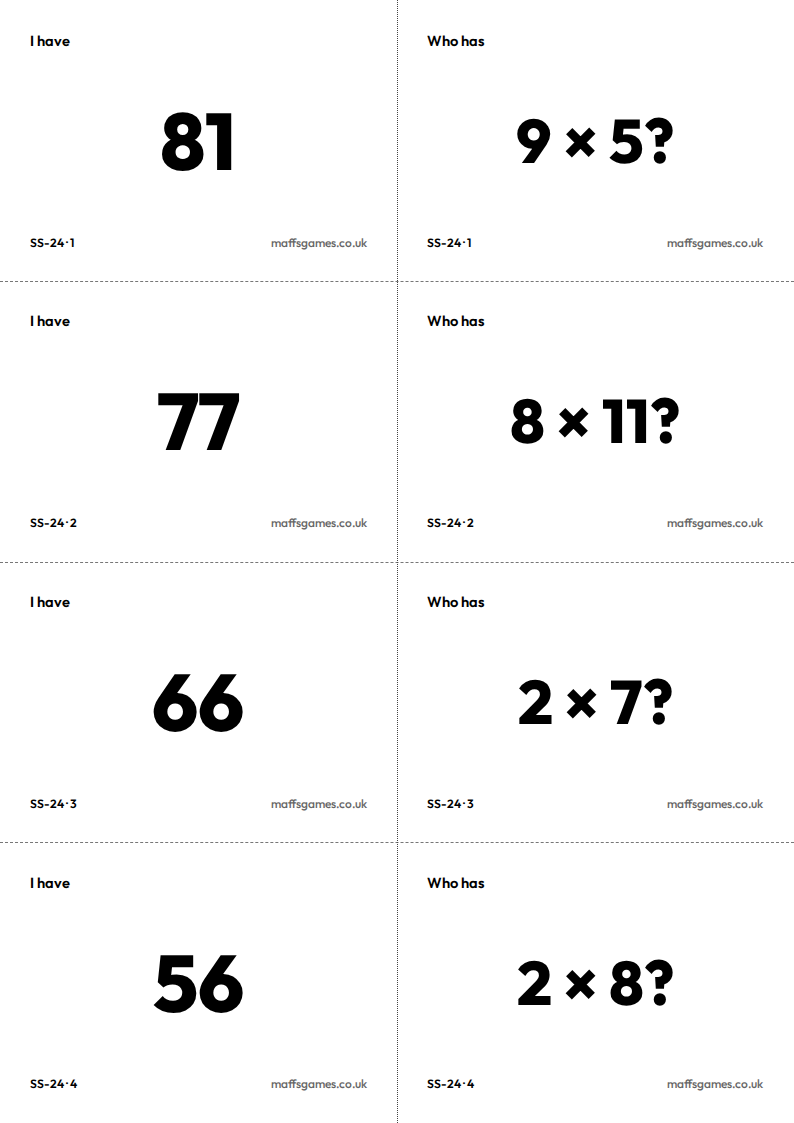
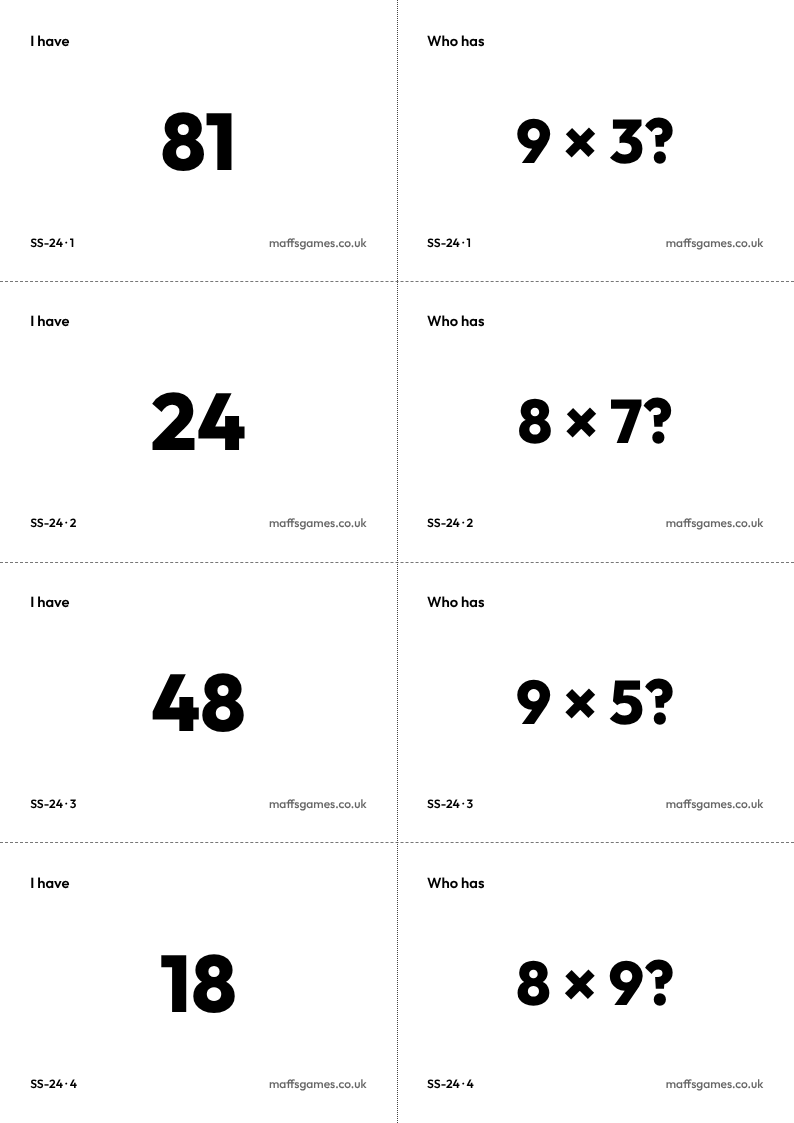
SIX-SEVENS-WEIGHTING: Six Sevens decks drill the 6, 7, 8, 9 and 12 tables by rule; the build checks it; loop-card selftest in CI
six_sevens.py: factors 3 to 12 without 10. SS-16 and SS-24 are 42 plus facts
drawn uniformly from the 25 core products (a factor in 6, 7, 8, 9, 12, no 11);
SS-32 is all 25 plus 7 from the 15 others. WEIGHT and _weight() removed.
deck_problems() holds every deck to the rule from the printed backs' factors
(factors_q, sharing value_q's parsing); build_deck.py's check_deck() calls it
when an adapter defines it. Three new plants (6 x 11 in SS-24, 2 x 9 in SS-16,
SS-32 with 8 non-core cards): selftest 18 of 18 caught.

scripts/test-loop-cards.py runs build_deck.py --selftest in CI, on
test-pack-generator.py's pattern. Six Sevens proofs regenerated; todo
LOOP-CARDS-APPROVE notes the changed cards; cloud handover.

Claude-Session: https://claude.ai/code/session_016VxfSY36HFS7AxEjw24NP9

diff --git a/tools/loop-cards/six_sevens.py b/tools/loop-cards/six_sevens.py
@@ -1,20 +1,31 @@
 """Six Sevens, Bruv: the loop-card adapter (contract LOOP-CARDS, 12 Nov 2026).
 
-Facts a x b with 2 <= a <= b <= 12, no x10 (the contract's rule for this pack), every product in a deck distinct,
-chosen deterministically from the deck's seeded generator and weighted to the 6, 7, 8, 9 and 12 tables. Every deck
-holds 6 x 7, whose card pair is SHOUTED (Jon, 12 Nov 2026, 15:05 and 15:07).
+Facts a x b with 3 <= a <= b <= 12, no x10, every product in a deck distinct, chosen deterministically from the deck's
+seeded generator. The decks drill the 6, 7, 8, 9 and 12 tables by RULE, not by probability (contract
+SIX-SEVENS-WEIGHTING, Jon's rulings of 13 Nov 2026, 01:50 and 01:55):
+
+  CORE  = the distinct products a x b (a, b from 3 to 12, not 10 or 11) with a or b in {6, 7, 8, 9, 12}: 25 products.
+  OTHER = every other distinct product a x b (a, b from 3 to 12, not 10): 15 products, from the 3, 4, 5 and 11 tables.
+
+  SS-16 and SS-24: 42 and the rest drawn uniformly from CORE, each printed as a fact on the 6, 7, 8, 9 or 12 table
+  with no 11. SS-32: all 25 CORE products, plus 7 drawn uniformly from OTHER.
+
+Every deck holds 6 x 7, whose card pair is SHOUTED (Jon, 12 Nov 2026, 15:05 and 15:07).
 
 The build's check never trusts choose(): value_q() and value_a() read the PRINTED text again and work the
-products out themselves, including the shouted question in words.
+products out themselves, including the shouted question in words; deck_problems() reads the printed backs' factors
+again and holds every deck to the rule above.
 """
 import re
 
 CODE = "SS"
 GAME = "six-sevens-bruv"
-FACTORS = [a for a in range(2, 13) if a != 10]
-WEIGHTED = {6, 7, 8, 9, 12}
-WEIGHT = 3                   # a fact on a weighted table is three times as likely to be chosen
+FACTORS = [a for a in range(3, 13) if a != 10]
+TABLES = {6, 7, 8, 9, 12}    # the tables the decks drill
+NOT_CORE = 11                # an 11-table fact is never core, whatever it is paired with
 REQUIRED = 42                # 6 x 7, in every deck
+CORE_DECKS = (16, 24)        # every card core
+ALL_CORE_DECK, OTHERS = 32, 7    # all of CORE, plus this many from OTHER
 TXT_CLASS = "lc-num"
 FRONT_MAX, BACK_MAX = 60, 46
 FONTS = ("Outfit",)
@@ -38,24 +49,42 @@ def _facts():
     return by_product
 
 
-def _weight(fact):
-    return WEIGHT if (fact[0] in WEIGHTED or fact[1] in WEIGHTED) else 1
+def is_core(fact):
+    """A fact on the 6, 7, 8, 9 or 12 table with no 11 in it."""
+    return NOT_CORE not in fact and bool(TABLES & set(fact))
+
+
+def _sets():
+    """(CORE, OTHER): each a dict of product -> the facts it may be printed as, in a fixed order."""
+    core, other = {}, {}
+    for p, facts in sorted(_facts().items()):
+        good = [f for f in facts if is_core(f)]
+        if good:
+            core[p] = good
+        else:
+            other[p] = facts
+    return core, other
 
 
 def choose(n, rng):
-    """n facts with distinct products, 6 x 7 always among them. A weighted sample without replacement
-    (Efraimidis-Spirakis keys), so the same seed always gives the same deck."""
-    by_product = _facts()
-    if len(by_product) < n:
-        raise ValueError("only %d distinct products, not %d" % (len(by_product), n))
-    pool = sorted(p for p in by_product if p != REQUIRED)
-    key = {p: rng.random() ** (1.0 / max(_weight(f) for f in by_product[p])) for p in pool}
-    chosen = [REQUIRED] + sorted(pool, key=lambda p: -key[p])[:n - 1]
+    """n facts with distinct products, 6 x 7 always among them, by the rule in the module's docstring. Every draw
+    comes from rng, over sorted lists, so the same seed always gives the same deck."""
+    core, other = _sets()
+    if n in CORE_DECKS:
+        pool = sorted(p for p in core if p != REQUIRED)
+        if len(pool) < n - 1:
+            raise ValueError("only %d core products besides 42, not %d" % (len(pool), n - 1))
+        chosen = [(REQUIRED, core[REQUIRED])] + [(p, core[p]) for p in rng.sample(pool, n - 1)]
+    elif n == ALL_CORE_DECK:
+        if len(core) + OTHERS != n or len(other) < OTHERS:
+            raise ValueError("%d core and %d other products cannot make %d + %d cards"
+                             % (len(core), len(other), len(core), OTHERS))
+        chosen = [(p, core[p]) for p in sorted(core)] + [(p, other[p]) for p in rng.sample(sorted(other), OTHERS)]
+    else:
+        raise ValueError("no Six Sevens deck of %d cards (16, 24 or 32)" % n)
     items = []
-    for p in chosen:
-        facts = by_product[p]
-        fk = {f: rng.random() ** (1.0 / _weight(f)) for f in facts}
-        a, b = max(facts, key=lambda f: fk[f])
+    for p, facts in chosen:
+        a, b = rng.choice(facts)
         if rng.random() < 0.5:
             a, b = b, a
         items.append({"q": "%d × %d" % (a, b), "a": str(p)})
@@ -65,7 +94,8 @@ def choose(n, rng):
 def unused(items):
     """A fact (as an item) whose product is in none of these items: the selftest's replacement for 6 x 7."""
     have = {value_a(it["a"]) for it in items}
-    for p, facts in sorted(_facts().items()):
+    core, other = _sets()
+    for p, facts in sorted(list(core.items()) + list(other.items())):
         if p not in have and p != REQUIRED:
             a, b = facts[0]
             return {"q": "%d × %d" % (a, b), "a": str(p)}
@@ -81,21 +111,61 @@ WORDS_RE = re.compile(r"WHO HAS ([A-Z]+) ([A-Z]+?)S")
 
 
 def _factor(x):
-    if not (2 <= x <= 12) or x == 10:
-        raise ValueError("factor %d is outside 2 to 12 without 10" % x)
+    if not (3 <= x <= 12) or x == 10:
+        raise ValueError("factor %d is outside 3 to 12 without 10" % x)
     return x
 
 
-def value_q(text):
-    """A printed back without its "?": "a × b" (U+00D7), or the shout in words, "WHO HAS SIX SEVENS"
-    (six lots of seven). Returns the product."""
+def _parse(text):
+    """The two numbers a printed back names: "a × b" (U+00D7), or the shout in words, "WHO HAS SIX SEVENS"
+    (six lots of seven). Neither range-checked nor multiplied: value_q() and factors_q() share this reading."""
     m = FACT_RE.fullmatch(text)
     if m:
-        return _factor(int(m.group(1))) * _factor(int(m.group(2)))
+        return int(m.group(1)), int(m.group(2))
     m = WORDS_RE.fullmatch(text)
     if m and m.group(1) in WORDS and m.group(2) in WORDS:
-        return _factor(WORDS[m.group(1)]) * _factor(WORDS[m.group(2)])
+        return WORDS[m.group(1)], WORDS[m.group(2)]
     raise ValueError("cannot read the question %r (expected 'a × b' with U+00D7)" % text)
+
+
+def value_q(text):
+    """A printed back without its "?". Returns the product."""
+    a, b = _parse(text)
+    return _factor(a) * _factor(b)
+
+
+def factors_q(text):
+    """A printed back without its "?". Returns its two factors (a, b) as printed."""
+    return _parse(text)
+
+
+def deck_problems(code, n, backs):
+    """The table rule, read from the deck's PRINTED backs (each without its "?") through factors_q() alone, never
+    from choose(). SS-16 and SS-24: every card core (a factor in 6, 7, 8, 9, 12; no 11). SS-32: at least 25 core
+    cards and at most 7 others. Every deck: no factor below 3. One message per fault, naming the deck and the back."""
+    problems, core, others = [], [], []
+    for text in backs:
+        try:
+            fact = factors_q(text)
+        except ValueError as e:
+            problems.append("%s: the back %r: %s" % (code, text, e))
+            continue
+        if min(fact) < 3:
+            problems.append("%s: the back %r has a factor below 3" % (code, text))
+        (core if is_core(fact) else others).append(text)
+    if n in CORE_DECKS:
+        for text in others:
+            problems.append("%s: the back %r is not on the 6, 7, 8, 9 or 12 table without an 11 (every %s card must be)"
+                            % (code, text, code))
+    elif n == ALL_CORE_DECK:
+        need = len(_sets()[0])
+        if len(core) < need or len(others) > OTHERS:
+            problems.append("%s: %d cards on the 6, 7, 8, 9 and 12 tables without an 11 and %d others (%s); it needs at "
+                            "least %d and at most %d" % (code, len(core), len(others), ", ".join(map(repr, others)),
+                                                         need, OTHERS))
+    else:
+        problems.append("%s: no table rule for a deck of %d cards" % (code, n))
+    return problems
 
 
 def value_a(text):

diff --git a/tools/loop-cards/build_deck.py b/tools/loop-cards/build_deck.py
@@ -632,6 +632,10 @@ def check_deck(ad, code, faces, tables, add):
             Q[i] = ad.value_q(b["main"][:-1].strip())
         except ValueError as e:
             add("%s card %s back: %s" % (code, i, e))
+    if hasattr(ad, "deck_problems"):      # an adapter's own rule for a deck's mix, read from the printed backs
+        for msg in ad.deck_problems(code, n, [b["main"][:-1].strip() for _, b in sorted(back.items())
+                                              if (b["main"] or "").endswith("?")]):
+            add(msg)
     owners = {}
     for i, v in A.items():
         owners.setdefault(v, []).append(i)
@@ -960,6 +964,33 @@ def plant_no_web(ad, cfg, pack):
     _deck(pack, "SS-16")["cards"][1]["no_web"] = ("fold", "back")
 
 
+def _rebuild(ad, cfg, pack, n, items):
+    """Deck n rebuilt from these items, so the loop stays whole and only the planted card is wrong."""
+    pack["decks"][SIZES.index(n)] = make_deck(ad, cfg, n, items)
+
+
+def _swap_item(items, product, new):
+    """items with new in place of the card answering product, or, if none does, of the first card not answering 42."""
+    k = next((i for i, it in enumerate(items) if it["a"] == product), None)
+    if k is None:
+        k = next(i for i, it in enumerate(items) if it["a"] != "42")
+    return items[:k] + [new] + items[k + 1:]
+
+
+def plant_eleven(ad, cfg, pack):
+    _rebuild(ad, cfg, pack, 24, _swap_item(_deck(pack, "SS-24")["items"], "66", {"q": "6 × 11", "a": "66"}))
+
+
+def plant_two(ad, cfg, pack):
+    _rebuild(ad, cfg, pack, 16, _swap_item(_deck(pack, "SS-16")["items"], "18", {"q": "2 × 9", "a": "18"}))
+
+
+def plant_eight_others(ad, cfg, pack):
+    """SS-32 holds every core product, 54 (6 × 9) among them: an unused non-core product takes its place."""
+    items = _deck(pack, "SS-32")["items"]
+    _rebuild(ad, cfg, pack, 32, _swap_item(items, "54", ad.unused(items)))
+
+
 PLANTS = (
     ("a duplicated answer", "like-terms-collector", plant_dup, r"is on 2 cards"),
     ("a back with no matching front", "like-terms-collector", plant_no_front, r"matches no front"),
@@ -979,6 +1010,11 @@ PLANTS = (
      r"the SHOUT IT back asks"),
     ("a shout in the Like Terms pack", "like-terms-collector", plant_lt_shout, r"in a pack without shouts"),
     ("a card face without the web address", "six-sevens-bruv", plant_no_web, r"no maffsgames\.co\.uk on this face"),
+    ("an 11-table card (6 × 11) in SS-24", "six-sevens-bruv", plant_eleven,
+     r"SS-24: the back '6 × 11' is not on the 6, 7, 8, 9 or 12 table"),
+    ("a 2-times card (2 × 9) in SS-16", "six-sevens-bruv", plant_two, r"SS-16: the back '2 × 9' has a factor below 3"),
+    ("SS-32 with 8 cards off the core tables", "six-sevens-bruv", plant_eight_others,
+     r"SS-32: 24 cards on the 6, 7, 8, 9 and 12 tables without an 11 and 8 others"),
 )
 
 

diff --git a/scripts/test-loop-cards.py b/scripts/test-loop-cards.py
@@ -1,0 +1,19 @@
+#!/usr/bin/env python3
+# ci-line: Loop cards (tools/loop-cards/build_deck.py --selftest: both loop-card packs, Six Sevens, Bruv and Like Terms Collector, pass every check as built, with the DRAFT badge following approval both ways; eighteen planted faults caught (a duplicated answer, a back with no front, two loops in one deck, a card asking its own answer, a back not mirrored, text past the safe zone, a string-similar answer, a card from another deck, a long teacher step, no 6 × 7, a shout on the wrong card or back, a shout in Like Terms, a face without the web address, an 11-table card in SS-24, a 2-times card in SS-16, SS-32 with 8 cards off the core tables, an unapproved --final); no PDF is ever built in CI) |
+# ci-deps: tools/loop-cards/ tools/pack-generator/ games/like-terms-collector/index.html scripts/bank_common.py scripts/plant_common.py scripts/escape_set_checks.py scripts/ci_shards.py scripts/fonts/ schools/assets/m_plus_logo.svg
+"""CI's entry to the loop-card generator's self-test (contract SIX-SEVENS-WEIGHTING, 13 Nov 2026).
+
+CI finds its lines only in scripts/*.py headers (scripts/ci-groups.py), and the generator lives in tools/loop-cards/,
+so this file is the line and nothing more, on scripts/test-pack-generator.py's pattern: it runs
+`build_deck.py --selftest` and returns its exit status. The self-test builds no PDF: the pack is the product, and
+never a CI artifact.
+"""
+import os
+import subprocess
+import sys
+
+ROOT = os.path.dirname(os.path.dirname(os.path.abspath(__file__)))
+BUILD = os.path.join(ROOT, "tools", "loop-cards", "build_deck.py")
+
+if __name__ == "__main__":
+    sys.exit(subprocess.call([sys.executable, "-X", "utf8", BUILD, "--selftest"]))

diff --git a/docs/handover/cloud.md b/docs/handover/cloud.md
@@ -79,7 +79,8 @@ start-up load). When the work merges, move the file to `docs/history/contracts/`
 
 ## 2026-11-13 (cloud): SIX-SEVENS-WEIGHTING (`docs/handover/contracts/2026-11-13-six-sevens-weighting.md`, lane exception, Jon 07:58)
 
-IN PROGRESS. Agent Claude Code (cloud), branch `claude/optimistic-goodall-q87dul` from main 89a5946. First commit: this contract, and WARMUP-PACKS' close-out (below). Core set checked before any edit: 25 products, 42 among them (18 21 24 27 28 30 32 35 36 40 42 45 48 49 54 56 60 63 64 72 81 84 96 108 144); OTHER 15 (9 12 15 16 20 25 33 44 55 66 77 88 99 121 132). Next: six_sevens.py rule and deck_problems, build_deck.py hook, three plants, scripts/test-loop-cards.py, build and proofs.
+PR OPEN, merging on green. Agent Claude Code (cloud), branch `claude/optimistic-goodall-q87dul` from main 89a5946. First commit bdc773d: this contract, and WARMUP-PACKS' close-out (below). Core set checked before any edit: 25 products, 42 among them (18 21 24 27 28 30 32 35 36 40 42 45 48 49 54 56 60 63 64 72 81 84 96 108 144); OTHER 15 (9 12 15 16 20 25 33 44 55 66 77 88 99 121 132).
+Done: six_sevens.py draws by rule (16/24: 42 + core; 32: all 25 core + 7 other) and deck_problems() reads the printed backs' factors; build_deck.py check_deck() calls an adapter's deck_problems if it has one (generic); three plants; selftest 18/18 caught (was 15). scripts/test-loop-cards.py (ci-line, ci-deps from a traced selftest run) packs alone into Content verifiers 50; ci-groups --check PASS. Six Sevens pack built (DRAFT, 40 pages, same page ranges and font sizes as main's); SS-16/24 all core, SS-32 25 core + 7 others, no factor below 3. Like Terms' printed faces, sizes and answer sheets byte-identical to main's build. Proofs regenerated for six-sevens-bruv only: same layout, the build date and the container's font smoothing differ.
 
 ## 2026-11-12 (cloud): WARMUP-PACKS (`docs/history/contracts/2026-11-12-warmup-packs.md`, lane exception, Jon 17:58; Amendments 1-3)
 

diff --git a/docs/todo.md b/docs/todo.md
@@ -692,7 +692,7 @@ Only what needs Jon: a ruling, a content review, or a task only he can do. Build
 - None open (11 Nov 2026: matrix-crunch's fourth distractor, §1.4, ruled by Jon on 10 Nov and closed by CLOUD-QUEUE-1111 PR 1).
 
 **Content to review:**
-- **LOOP-CARDS-APPROVE** (12 Nov 2026): approve both loop-card packs' teacher wording (proofs `docs/screens/loop-cards/*-teacher1.png`) (the PR's three layout calls were approved by Jon on 12 Nov). Approval goes in `tools/loop-cards/decks/<slug>/config.json` "wording_approved"; then `--final` builds go to Tes (Like Terms Collector £3; Six Sevens, Bruv free). Owner: Jon, then home lane.
+- **LOOP-CARDS-APPROVE** (12 Nov 2026): approve both loop-card packs' teacher wording (proofs `docs/screens/loop-cards/*-teacher1.png`) (the PR's three layout calls were approved by Jon on 12 Nov). **Six Sevens' cards changed (SIX-SEVENS-WEIGHTING, 13 Nov 2026):** the 16 and 24 decks are only 6, 7, 8, 9 and 12-table facts with no 11s and no 2s, the 32 deck all 25 of those plus 7 from the 3, 4, 5 and 11 tables, and the build checks it; Jon proofreads the new Six Sevens PDF (`python -X utf8 tools/loop-cards/build_deck.py six-sevens-bruv`) before approving. Approval goes in `tools/loop-cards/decks/<slug>/config.json` "wording_approved"; then `--final` builds go to Tes (Like Terms Collector £3; Six Sevens, Bruv free). Owner: Jon, then home lane.
 - Spot the Error banks (§1.23): KS3 35, Level 4 30.
 - New Shapes banks (§1.27): 15 / 20 / 15.
 - Regression Rumble (§1.26): Jon's look at the rebuilt game before the holding page is replaced.

diff --git a/tools/loop-cards/README.md b/tools/loop-cards/README.md
@@ -94,8 +94,11 @@ unless, for every deck:
 `build_deck.py` holds no game's facts. A pack's `decks/<slug>/config.json` names its adapter, title, seed and pack
 version. The adapter (`six_sevens.py`, `like_terms.py`) gives:
 
-- `choose(n, rng)`: the deck's questions and answers. Six Sevens: facts a × b, 2 ≤ a ≤ b ≤ 12 without ×10, every
-  product distinct, weighted 3 to 1 towards the 6, 7, 8, 9 and 12 tables, 6 × 7 always in. Like Terms: the 30 STAGE3
+- `choose(n, rng)`: the deck's questions and answers. Six Sevens: facts a × b, 3 ≤ a ≤ b ≤ 12 without ×10, every
+  product distinct, 6 × 7 always in, by a rule, not a probability (SIX-SEVENS-WEIGHTING, Jon, 13 Nov 2026): the 16
+  and 24 decks are only facts on the 6, 7, 8, 9 and 12 tables with no 11 (25 such products); the 32 deck is all 25 of
+  them plus 7 from the 3, 4, 5 and 11 tables. Its optional `deck_problems()` holds every deck to that rule from the
+  printed backs' factors, and the build fails on any breach. Like Terms: the 30 STAGE3
   items and the first 2 STAGE2 items of `games/like-terms-collector/index.html`, read from the page each build (never
   copied); the 32 deck is all of them, the 16 and 24 decks seeded subsets.
 - `value_q()` and `value_a()`: the independent recomputation of a printed question and answer.
